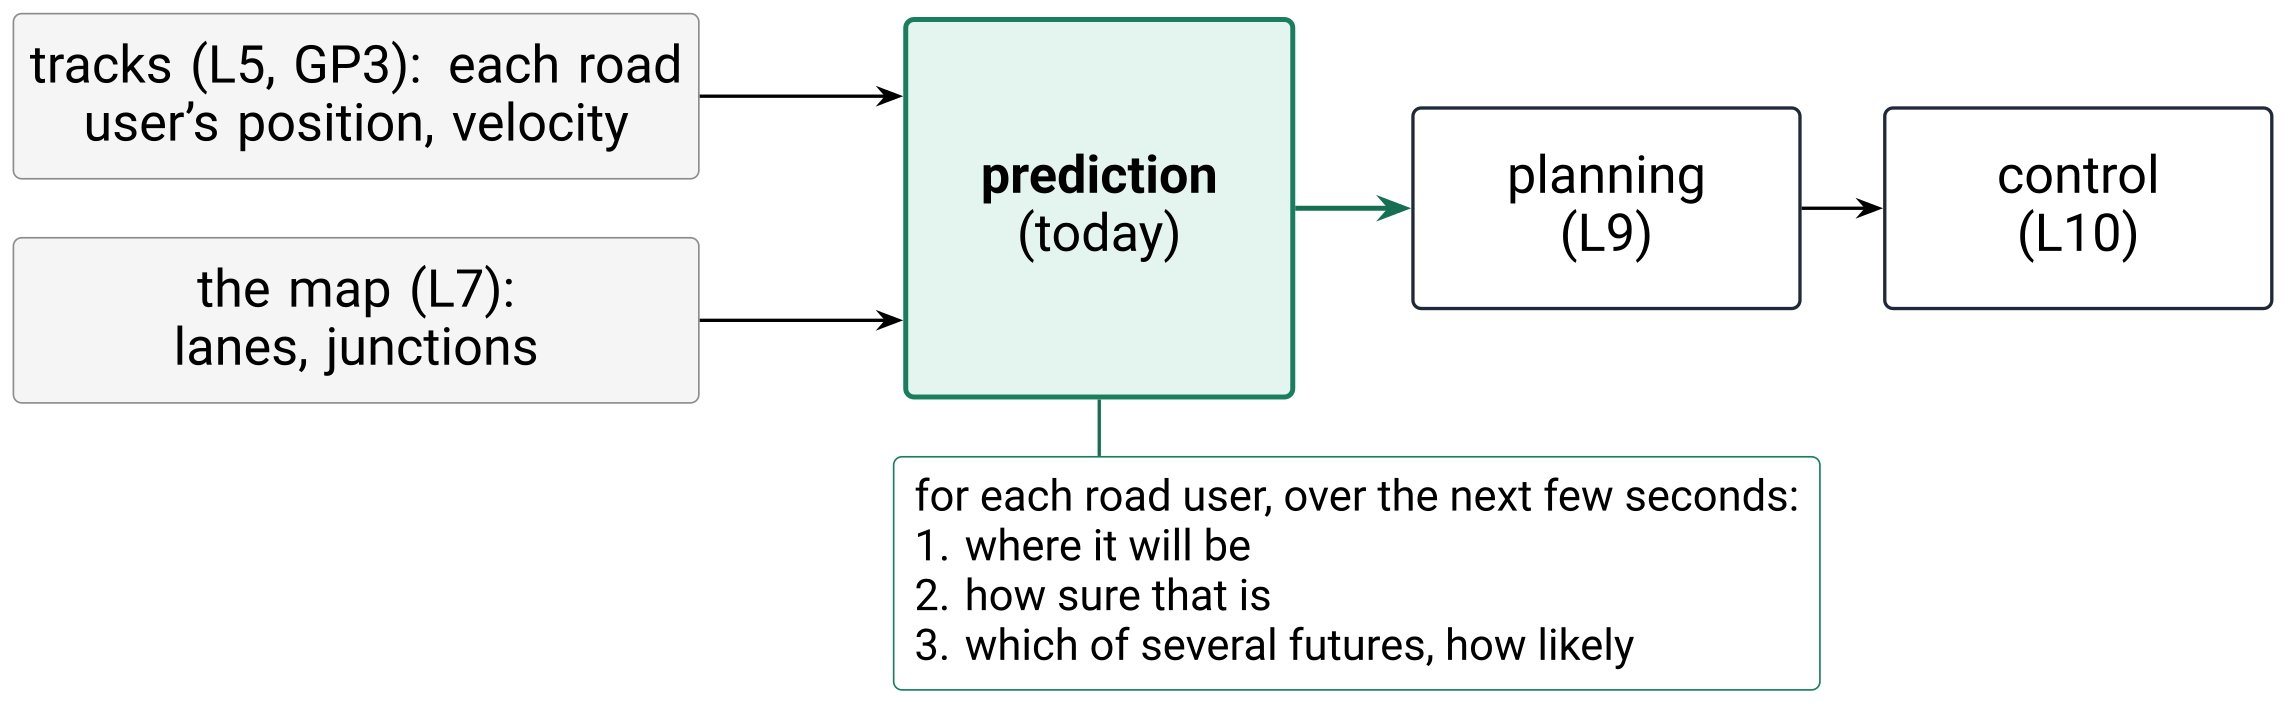
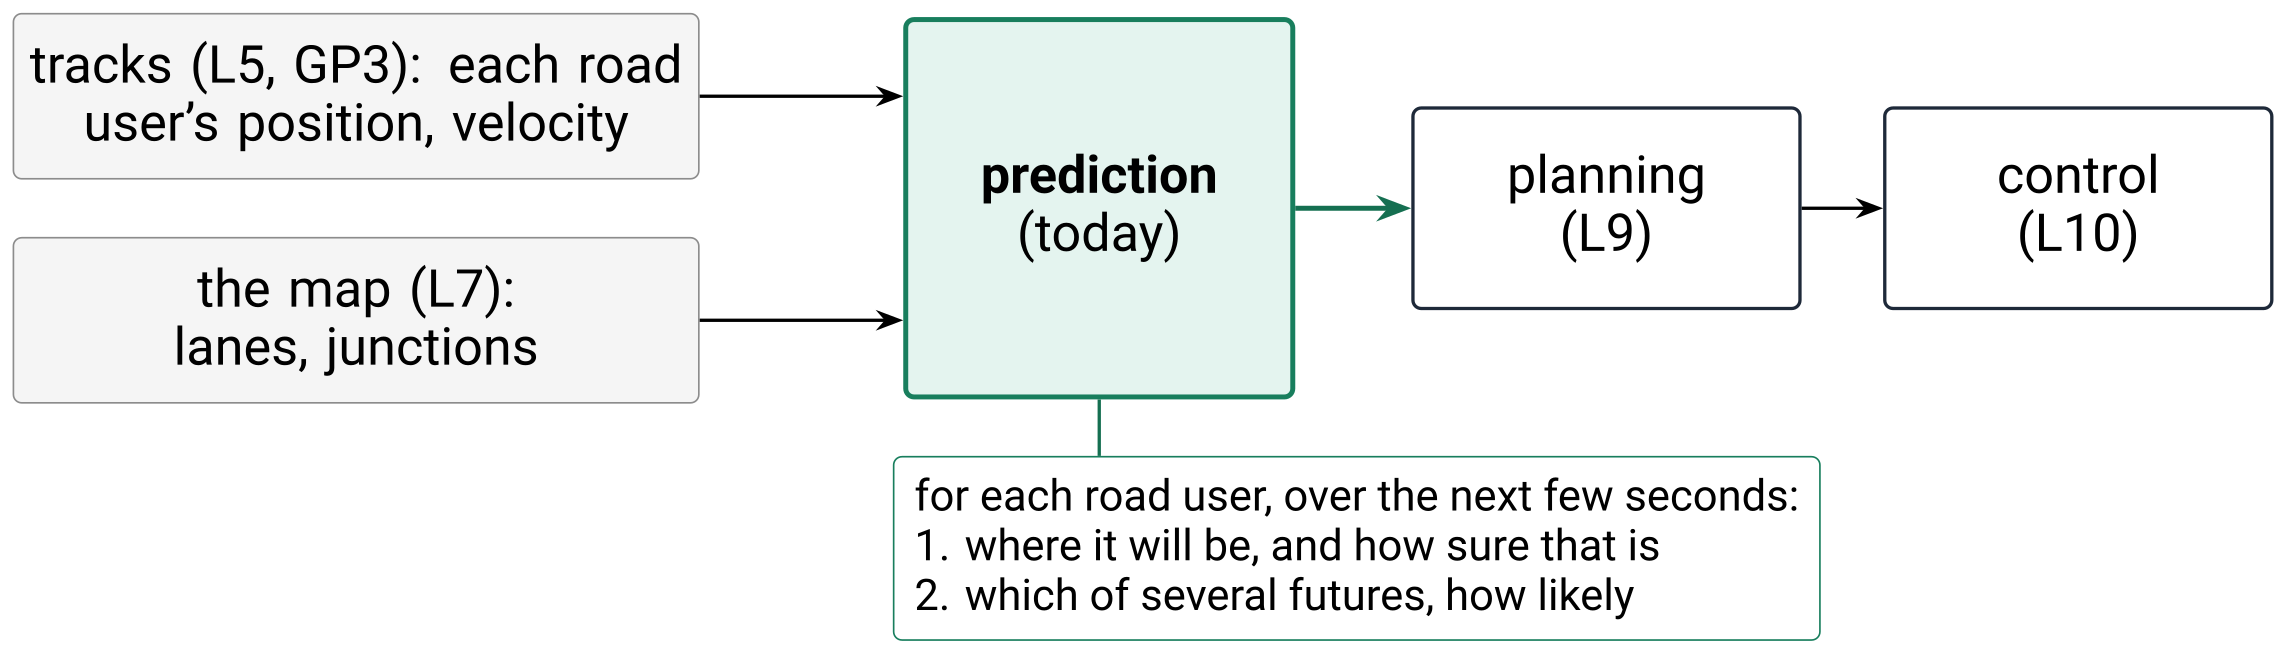
L8 docs: the opening note tells the figure's story; figure lists two outputs (v2.16.1)

diff --git a/docs/source/lectures/lecture8/l8_lecture.rst b/docs/source/lectures/lecture8/l8_lecture.rst
@@ -31,20 +31,23 @@ Introduction
 
 .. note::
 
-   **L5** follows every road user: a track with a position and a velocity.
-   **L7** gives the AV a route. **L8** says where the other road users
-   **will be** over the next few seconds, so that the planner (L9) can keep
-   clear of them.
+   In **L5**, we tracked every road user with one Kalman filter per object:
+   an ID, a position and a velocity (top left in the figure below). In
+   **L7**, we read the map's lanes and junctions to give the AV a route
+   (bottom left). Today, prediction reads both and says, for each road user,
+   where it **will be** over the next few seconds, how sure that is, and how
+   likely each possible future is. The planner (L9) uses that to keep the AV
+   clear of them, and control (L10) drives the plan.
 
 .. figure:: /_static/images/L8/pred_stack.png
-   :alt: A block diagram. Two gray input boxes on the left: tracks (L5, GP3), each road user's position and velocity; and the map (L7), lanes and junctions. Each has an arrow into a green box labeled prediction (today). A green arrow leads from prediction to a box labeled planning (L9), and an arrow from planning to a box labeled control (L10). Below prediction, a green box lists its output: for each road user, over the next few seconds, 1. where it will be, 2. how sure that is, 3. which of several futures, how likely.
+   :alt: A block diagram. Two gray input boxes on the left: tracks (L5, GP3), each road user's position and velocity; and the map (L7), lanes and junctions. Each has an arrow into a green box labeled prediction (today). A green arrow leads from prediction to a box labeled planning (L9), and an arrow from planning to a box labeled control (L10). Below prediction, a green box lists its output: for each road user, over the next few seconds, 1. where it will be, and how sure that is, 2. which of several futures, how likely.
    :width: 95%
    :align: center
 
    Where prediction sits. Its two inputs are the tracks of L5 (and GP3) and
    the map of L7. Its output goes to planning (L9), and planning's output to
    control (L10). For each road user, over the next few seconds, prediction
-   gives **1** where it will be, **2** how sure that is, and **3** which of
+   gives **1** where it will be, and how sure that is, and **2** which of
    several futures, and how likely each one is.
 
 

diff --git a/docs/source/changelog/changelog.rst b/docs/source/changelog/changelog.rst
@@ -5,10 +5,21 @@ Changelog
 All notable changes to the ENPM818Z Fall 2026 course documentation are recorded here.
 
 
-.. dropdown:: v2.16.0: Lecture 8 Hands-On in the Browser (2026-10-28)
+.. dropdown:: v2.16.1: Lecture 8 Introduction (2026-10-28)
    :icon: tag
    :class-container: sd-border-success
    :open:
+
+   .. rubric:: Lecture 8
+
+   - **Lecture page:** the opening note tells how L5's tracks and L7's map
+     lead to prediction, and the figure below it lists two outputs: where
+     each road user will be and how sure that is, and which of several
+     futures, how likely. Still hidden until Lecture 8 is published.
+
+.. dropdown:: v2.16.0: Lecture 8 Hands-On in the Browser (2026-10-28)
+   :icon: tag
+   :class-container: sd-border-success
 
    .. rubric:: Lecture 8
 
